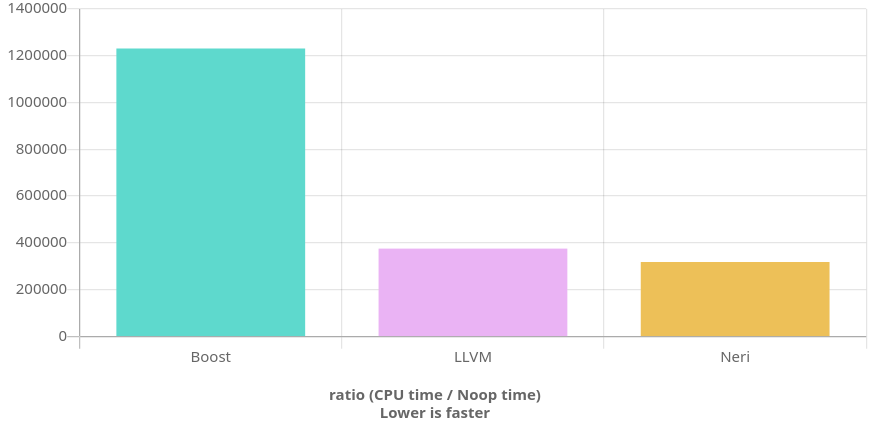
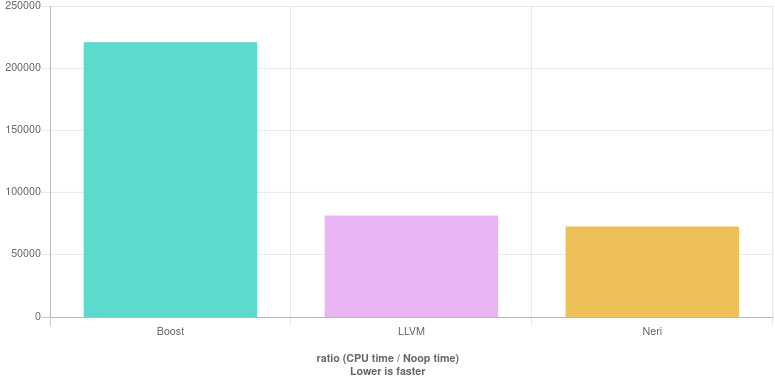
Upgraded quick-bench links/charts.

diff --git a/benchmarks/last_day_of_month.cpp b/benchmarks/last_day_of_month.cpp
@@ -1,6 +1,6 @@
 /*******************************************************************************
  *
- * is_leap_year benchmarks
+ * las_day_of_month benchmarks
  *
  * Copyright (C) 2020 Cassio Neri
  *
@@ -150,7 +150,7 @@ namespace llvm {
 auto const years = [](){
   std::uniform_int_distribution<year_t> uniform_dist(-400, 399);
   std::mt19937 rng;
-  std::array<year_t, 65536> years;
+  std::array<year_t, 16384> years;
   for (auto& year : years)
     year = uniform_dist(rng);
   return years;
@@ -159,7 +159,7 @@ auto const years = [](){
 auto const months = [](){
   std::uniform_int_distribution<month_t> uniform_dist(1, 12);
   std::mt19937 rng;
-  std::array<month_t, 65536> months;
+  std::array<month_t, 16384> months;
   for (auto& month : months)
     month = uniform_dist(rng);
   return months;
@@ -171,7 +171,7 @@ auto const months = [](){
 
 void Boost(benchmark::State& state) {
   for (auto _ : state) {
-    for (std::int32_t i = 0; i < 65536; ++i) {
+    for (std::int32_t i = 0; i < 16384; ++i) {
       auto day = boost::last_day_of_month(years[i], months[i]);
       benchmark::DoNotOptimize(day);
     }
@@ -181,7 +181,7 @@ BENCHMARK(Boost);
 
 void LLVM(benchmark::State& state) {
   for (auto _ : state) {
-    for (std::int32_t i = 0; i < 65536; ++i) {
+    for (std::int32_t i = 0; i < 16384; ++i) {
       auto day = llvm::last_day_of_month(years[i], months[i]);
       benchmark::DoNotOptimize(day);
     }
@@ -191,7 +191,7 @@ BENCHMARK(LLVM);
 
 void Neri(benchmark::State& state) {
   for (auto _ : state) {
-    for (std::int32_t i = 0; i < 65536; ++i) {
+    for (std::int32_t i = 0; i < 16384; ++i) {
       auto day = neri::last_day_of_month(years[i], months[i]);
       benchmark::DoNotOptimize(day);
     }

diff --git a/benchmarks/to_rata_die.cpp b/benchmarks/to_rata_die.cpp
@@ -1,6 +1,6 @@
 /*******************************************************************************
  *
- * is_leap_year benchmarks
+ * to_rata_die benchmarks
  *
  * Copyright (C) 2020 Cassio Neri
  *
@@ -25,9 +25,9 @@
 #include <random>
 #include <type_traits>
 
-/------------------------------------------------------------------------------
+//------------------------------------------------------------------------------
 // Config
-/------------------------------------------------------------------------------
+//------------------------------------------------------------------------------
 
 using year_t     = std::int16_t; // as in std::chrono::year
 using month_t    = std::uint8_t; // as in std::chrono::month
@@ -355,9 +355,9 @@ namespace reingold {
 
 } // namespace reingold
 
-/------------------------------------------------------------------------------
+//------------------------------------------------------------------------------
 // Benchmark data
-/------------------------------------------------------------------------------
+//------------------------------------------------------------------------------
 
 date_t constexpr
 to_date(rata_die_t n) noexcept {
@@ -393,7 +393,7 @@ auto const dates = [](){
 
 //------------------------------------------------------------------------------
 // Benchmark
-/------------------------------------------------------------------------------
+//------------------------------------------------------------------------------
 
 void Reingold(benchmark::State& state) {
   for (auto _ : state) {

diff --git a/benchmarks/is_leap_year.cpp b/benchmarks/is_leap_year.cpp
@@ -75,7 +75,7 @@ namespace ubiquitous {
 auto const years = [](){
   std::uniform_int_distribution<year_t> uniform_dist(-400, 399);
   std::mt19937 rng;
-  std::array<year_t, 65536> years;
+  std::array<year_t, 16384> years;
   for (auto& year : years)
     year = uniform_dist(rng);
   return years;

diff --git a/benchmarks/to_date.cpp b/benchmarks/to_date.cpp
@@ -1,6 +1,6 @@
 /*******************************************************************************
  *
- * is_leap_year benchmarks
+ * to_date benchmarks
  *
  * Copyright (C) 2020 Cassio Neri
  *

diff --git a/README.md b/README.md
@@ -18,19 +18,20 @@ implementations perform considerably faster than others.
 
 ![Benchmarks](https://github.com/cassioneri/calendar/blob/master/benchmarks/benchmarks.png)
 
-[is_leap_year](http://quick-bench.com/0HV3XYJeGuN9mgomWtMbixF28C0): Neri_mcomp is 3.3x faster than
-Ubiquitous (the implementation used virtually everywhere.) Neri_mod is 2x faster than Ubiquitous.
+[is_leap_year](https://quick-bench.com/q/xRcTxzWT5-GKQ-j0GCH4hfaufUg): Neri_mcomp is 3.1x faster 
+than Ubiquitous (the implementation used virtually everywhere.) Neri_mod is 1.9x faster than 
+Ubiquitous.
 
-[last_day_of_month](http://quick-bench.com/SLM-7N7CUCaTmEewgs2OZ6JBTjc): Neri is 3.9x faster than
-Boost and 1.2x faster than LLVM.
+[last_day_of_month](https://quick-bench.com/q/tQELbu-usMTN9C73WDPbqbYSo2Q): Neri is 3x faster than
+Boost and 1.1x faster than LLVM.
 
-[to_rata_die](http://quick-bench.com/mE3H4OV2zFQCmh4rGwIMfju5sxQ): Neri is 3.1x faster than
-Reingold, 2.2x faster than glibc, 2.1x faster than Hatcher, 1.8x faster than .NET, 1.7x fater than
-Boost, 1.6x faster than LLVM and 1.3x faster than Baum.
+[to_rata_die](https://quick-bench.com/q/U6pBJfCLLkxdioxD4uB9fakBPfY): Neri is 3.3x faster than
+Reingold, 2x faster than glibc, 2.4x faster than Hatcher, 1.8x faster than .NET, 1.7x fater than
+Boost, 1.7x faster than LLVM and 1.6x faster than Baum.
 
-[to_date](http://quick-bench.com/uWz8_ZgBxochr8v78f67wtnsaCo): Neri is 7x faster than Reingold, 6.1x
-faster than glibc, 3.5x faster than .NET, 2.9x faster than Hatcher, 2.6x faster than Boost, 2.2x
-faster than LLVM and 1.5x faster than Baum.
+[to_date](https://quick-bench.com/q/-X095A7navkZkrIiEwhFQoH4qjM): Neri is 6.7x faster than 
+Reingold, 6.2x faster than glibc, 3.5x faster than .NET, 2.8x faster than Hatcher, 2.6x faster than 
+Boost, 2.2x faster than LLVM and 1.5x faster than Baum.
 
 **Disclaimer**: Benchmarks above compare implementations as of 2020-May-02. They might have been
 slightly edited to get: (a) consistent function signatures; (b) storage types (for years, months,
